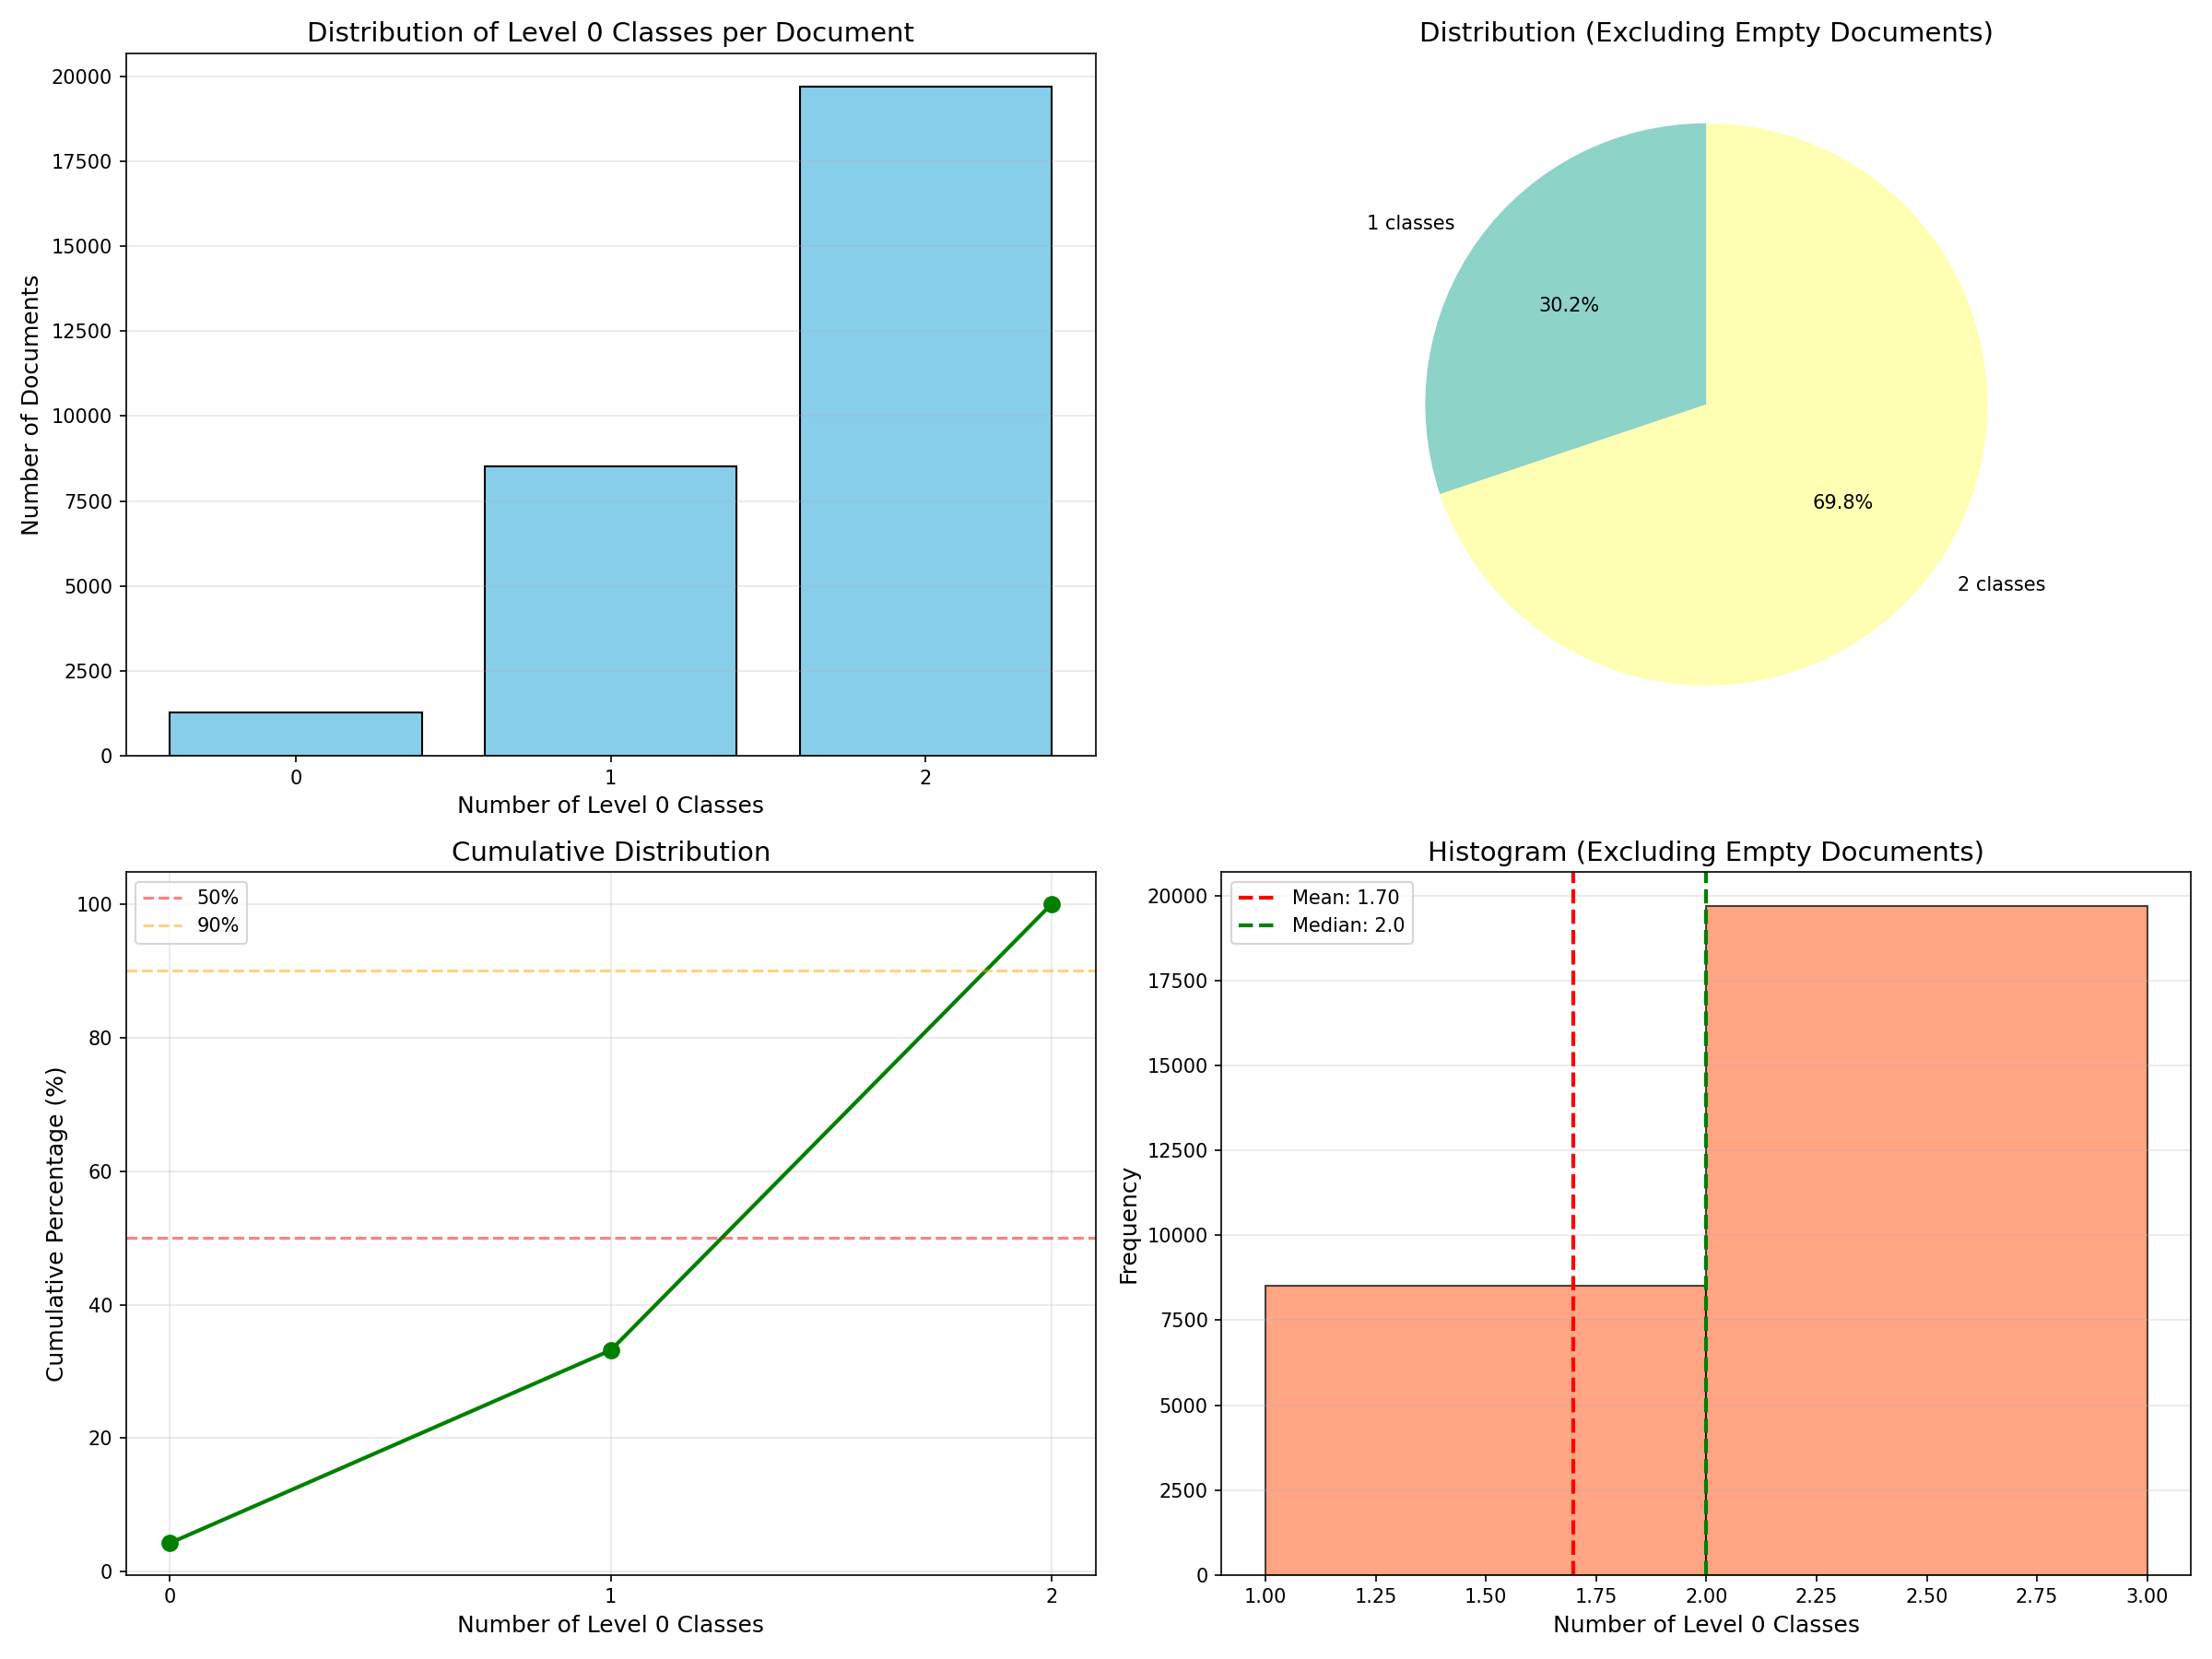
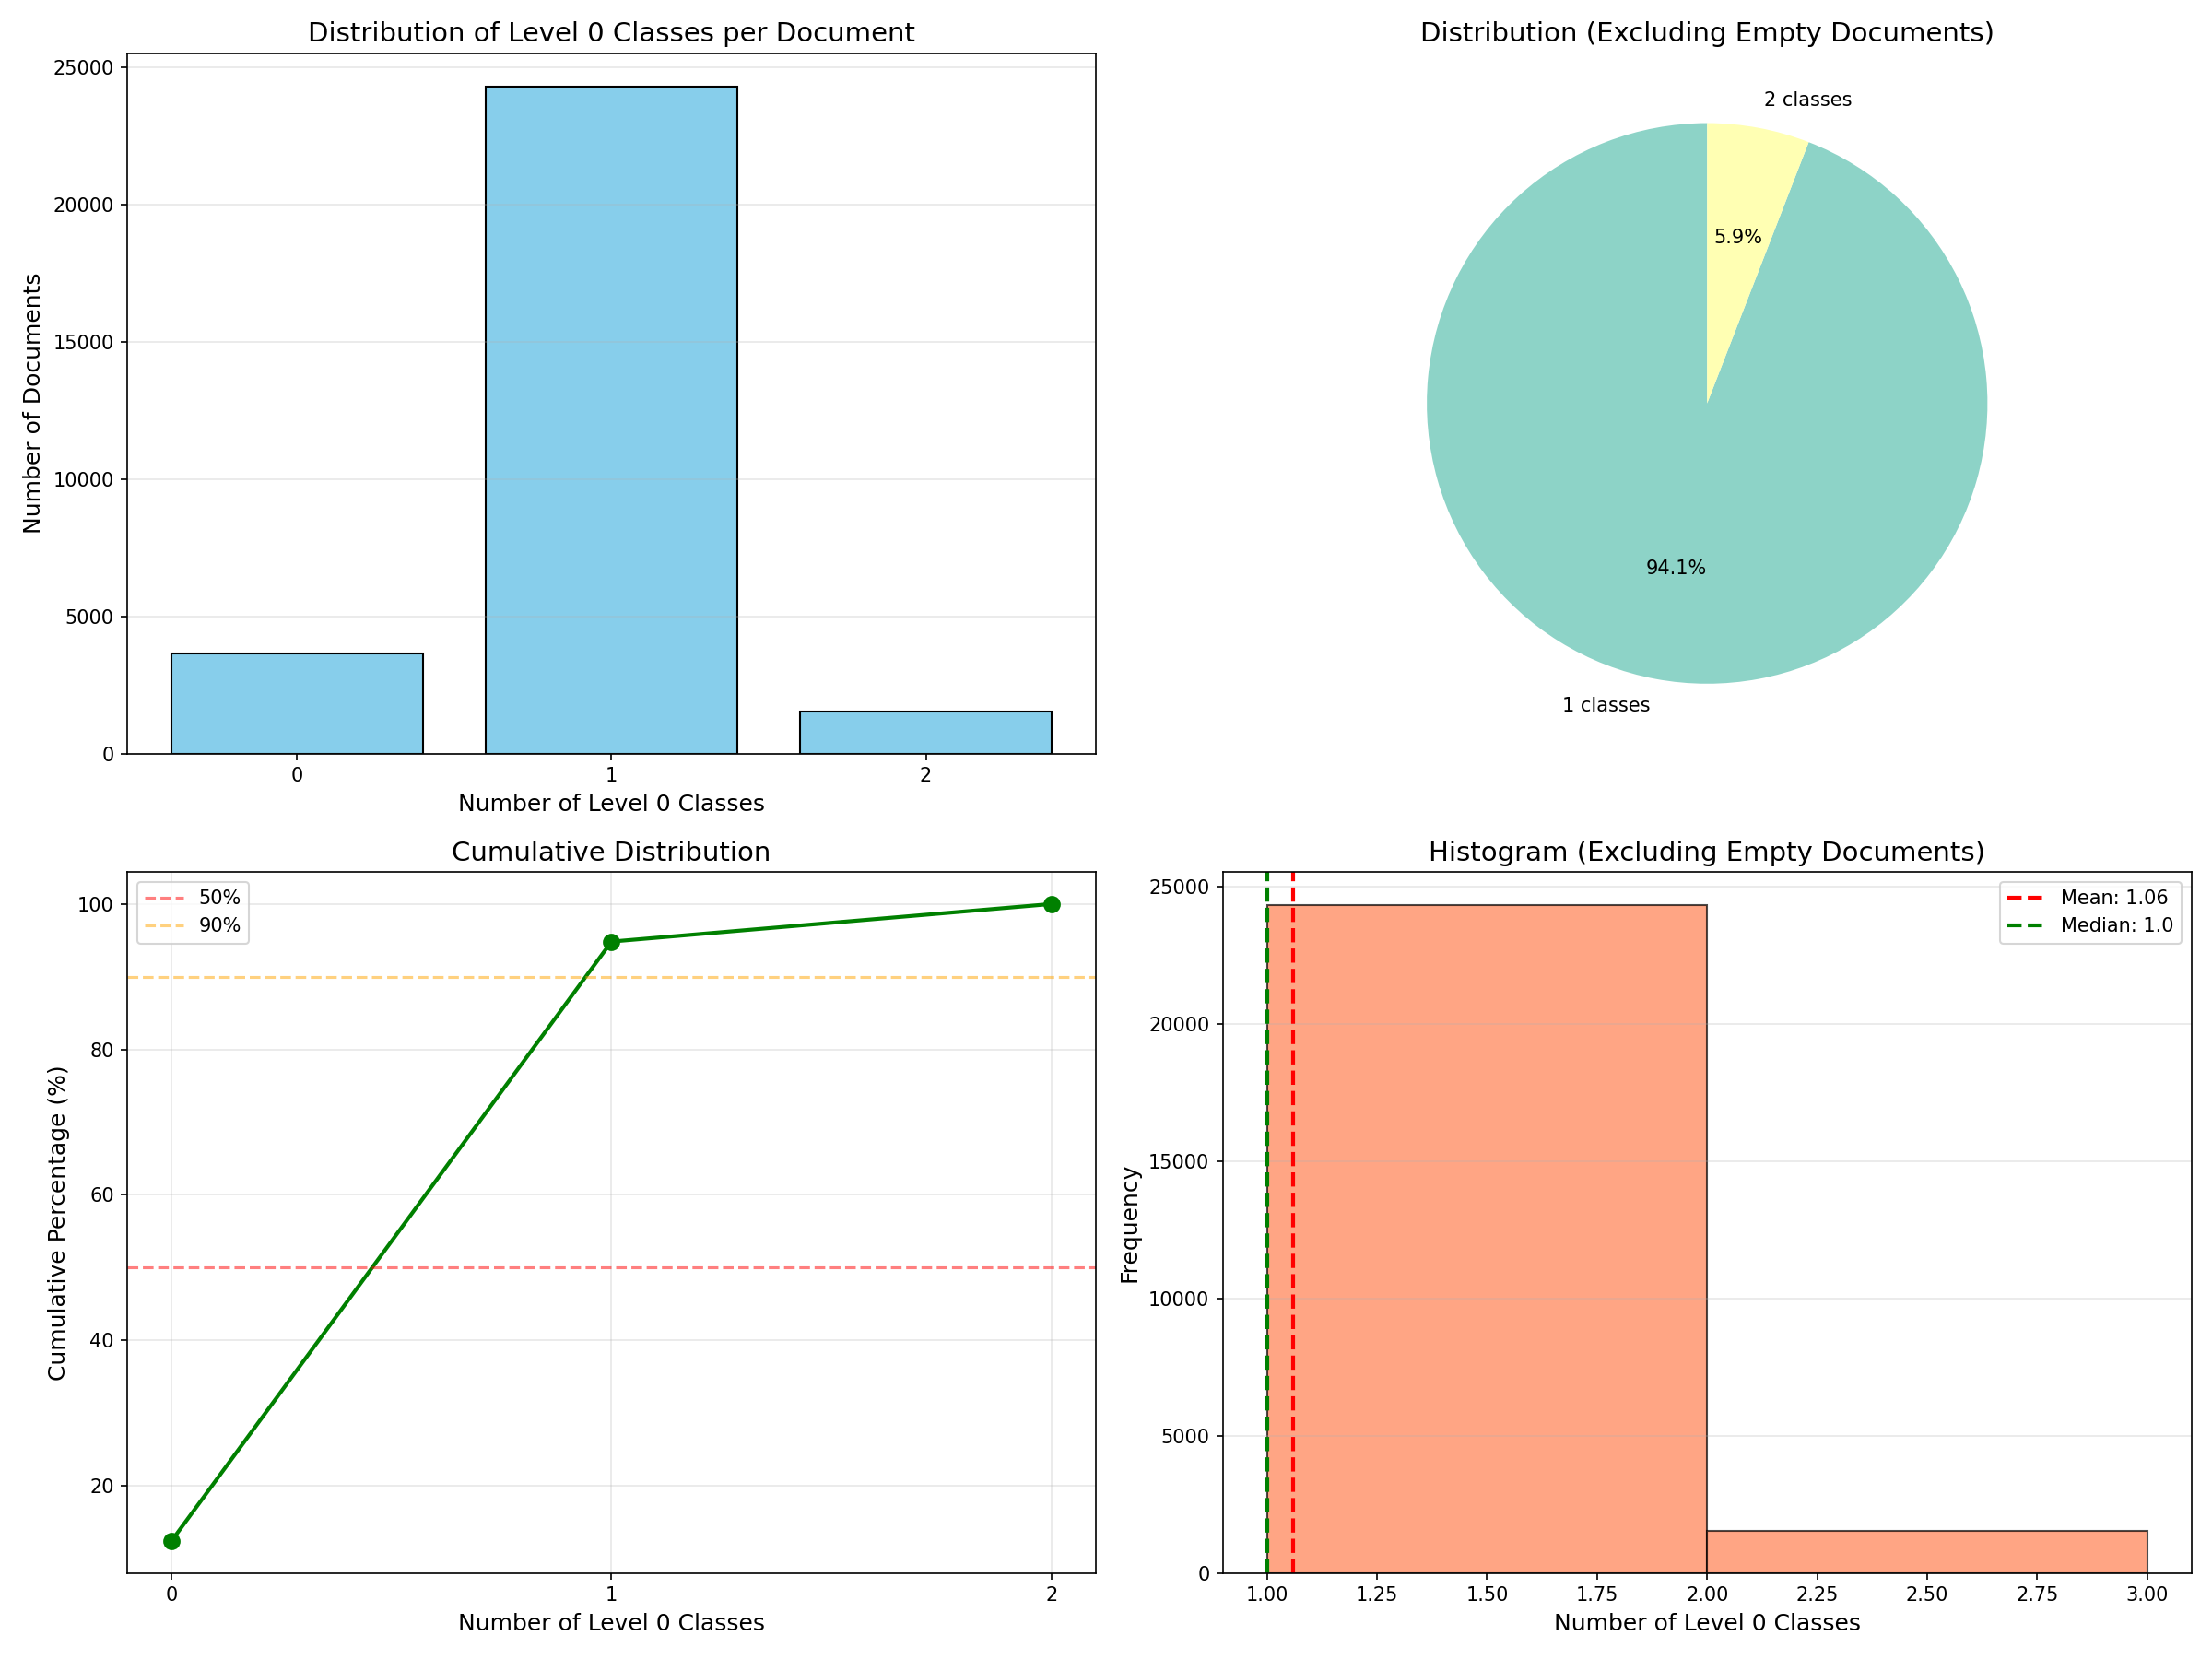
worst: only level0 class 1

diff --git a/main.py b/main.py
@@ -111,11 +111,31 @@ def main():
         for doc_id in train_doc_ids: # Use train_doc_ids
             core_classes.append(confident_core_classes.get(doc_id, []))
 
-    # --- 5. Label Expansion --- # Renumbered from 4.4 to 5
-    targets, masks = core_mining.expand_labels(core_classes, parents_dict, children_dict, num_classes) # Corrected num_classes
+    # --- 5. Pre-filter documents with 0 or 2 Level 0 classes ---
+    print("Filtering documents by Level 0 class count...")
+    excluded_level0_count = 0
+    for i, cores in enumerate(core_classes):
+        if len(cores) > 0:
+            # Count unique Level 0 ancestors
+            level0_classes = set()
+            for c in cores:
+                lv0 = core_mining.find_level0_ancestor(c, parents_dict)
+                level0_classes.add(lv0)
+            
+            num_level0 = len(level0_classes)
+            
+            # Exclude documents with 0 or 2 Level 0 classes
+            if num_level0 == 0 or num_level0 == 2:
+                core_classes[i] = []  # Clear core classes for this document
+                excluded_level0_count += 1
     
-    # --- 5.5 Filter documents with Core Classes ---
-    # Only train on documents that have at least one core class
+    print(f"Excluded {excluded_level0_count} docs with 0 or 2 Level 0 classes")
+    
+    # --- 5.5. Label Expansion ---
+    targets, masks = core_mining.expand_labels(core_classes, parents_dict, children_dict, num_classes)
+    
+    # --- 5.6 Filter documents with Core Classes ---
+    # Only train on documents that have at least one core class (after Level 0 filtering)
     print("Filtering documents with Core Classes...")
     valid_indices = [i for i, cores in enumerate(core_classes) if len(cores) > 0]
     filtered_doc_ids = [train_doc_ids[i] for i in valid_indices]

diff --git a/predict_submission.py b/predict_submission.py
@@ -89,7 +89,7 @@ def main():
     # 4. Load Checkpoint
     # Find the latest checkpoint
     latest_ckpt = None
-    for i in range(16, 0, -1): # Check up to 10 iterations
+    for i in range(17, 0, -1): # Check up to 10 iterations
         ckpt_path = os.path.join(CHECKPOINT_DIR, f'warmup_epoch_{i}.pth')
         if os.path.exists(ckpt_path):
             latest_ckpt = ckpt_path

diff --git a/src/core_mining.py b/src/core_mining.py
@@ -387,7 +387,7 @@ def expand_labels(core_classes, parents_dict, children_dict, num_classes):
             
         for d in descendants:
             if d not in positives: # Should not mask if it's already positive (rare/impossible in tree)
-                # masks[i, d] = 0.0
+                #masks[i, d] = 0.0
                 pass
                 
     return targets, masks